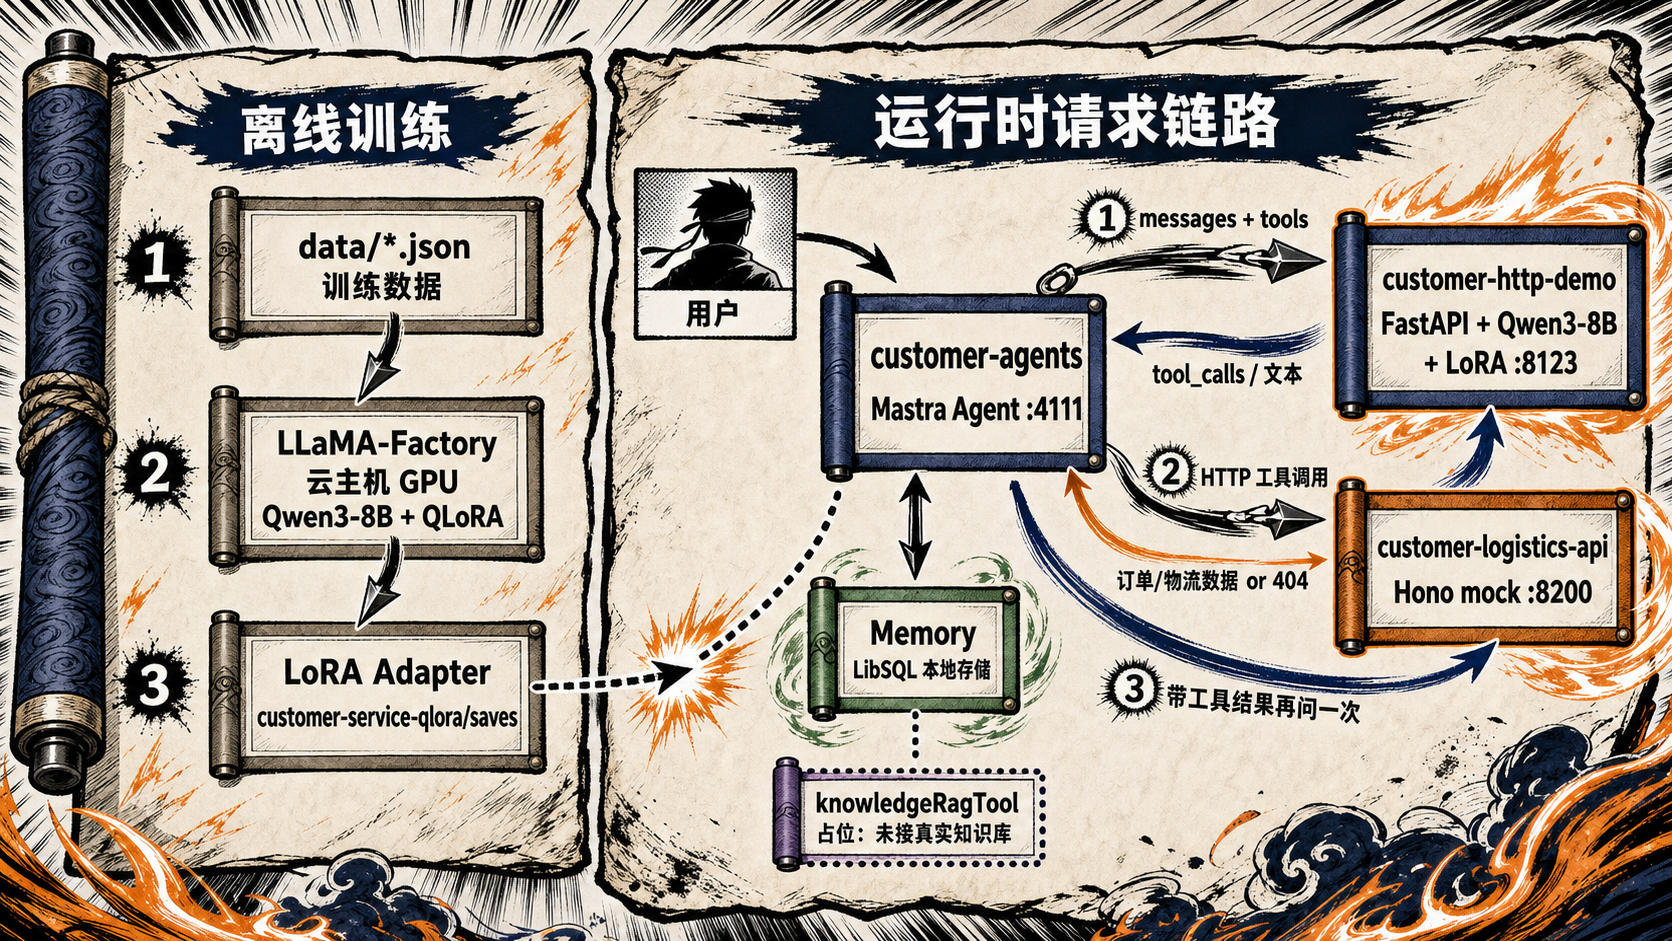
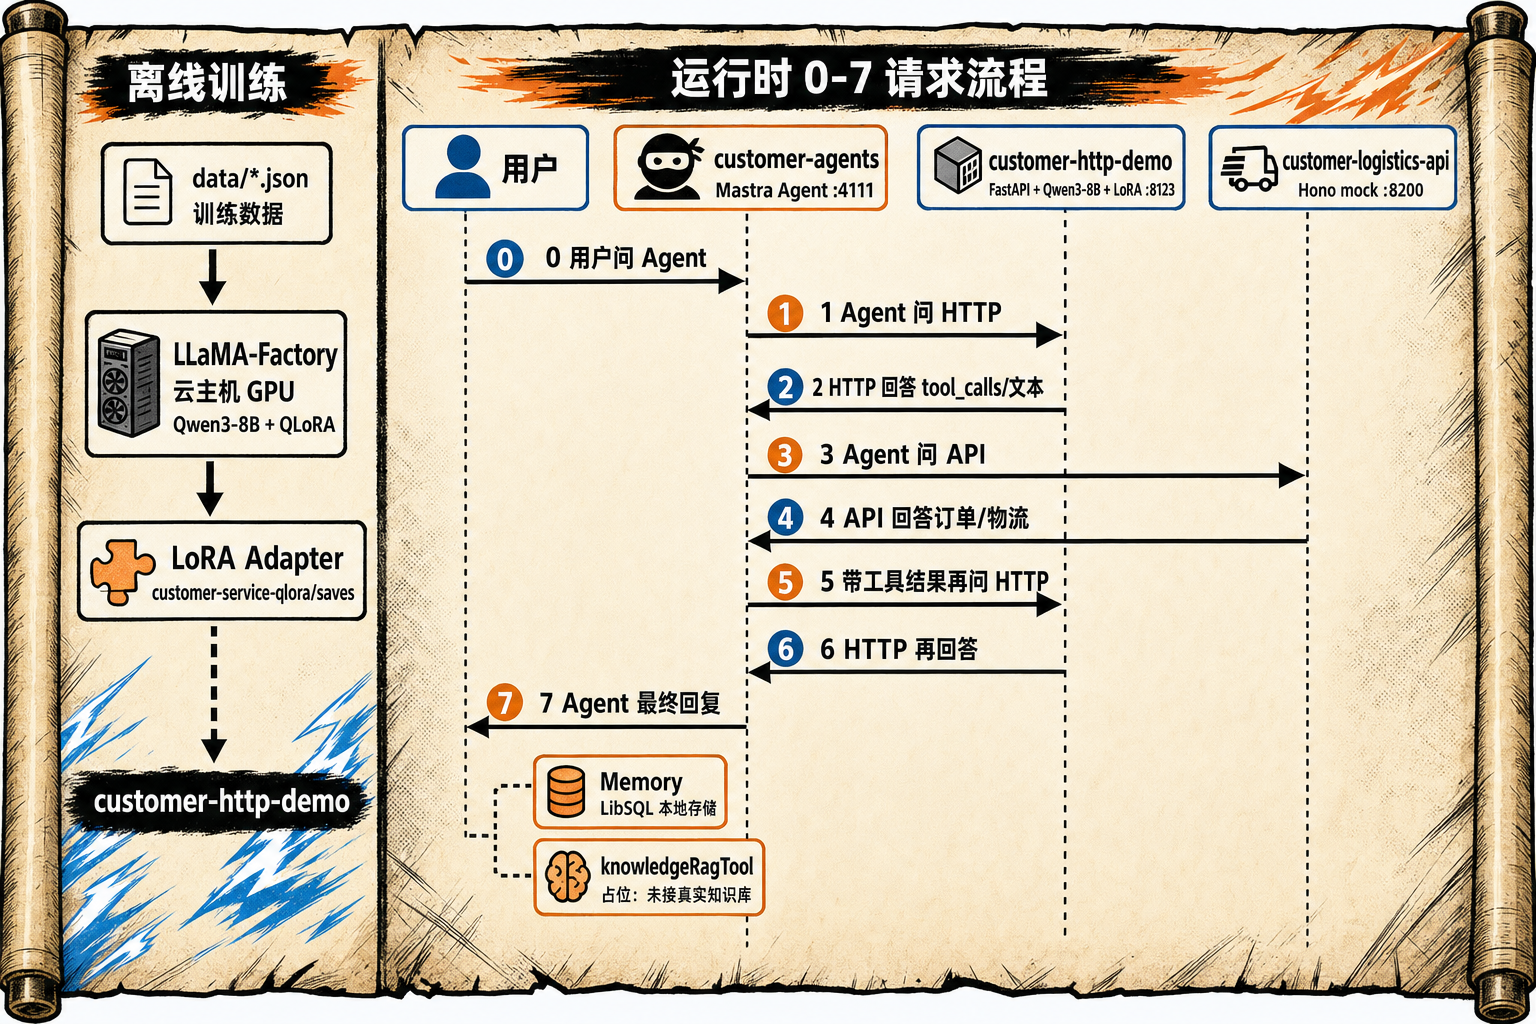
feat: 数据提交

diff --git a/docs/todo.md b/docs/todo.md
@@ -1,0 +1,6 @@
+1.准备好冰箱、彩电、显示器维修MD
+2.准备 向量数据库、向量模型 用mastra把维修的文档写到向量数据库
+3.把你原来的agents接入到RAG 一定加入Rerank
+4.选修作业--向量数据库 工作流 过往的经验存在了MD
+5.大模型：底座+lora+向量数据库 润色
+6.务必把前端开发了 mastra/client调度mastra接口
